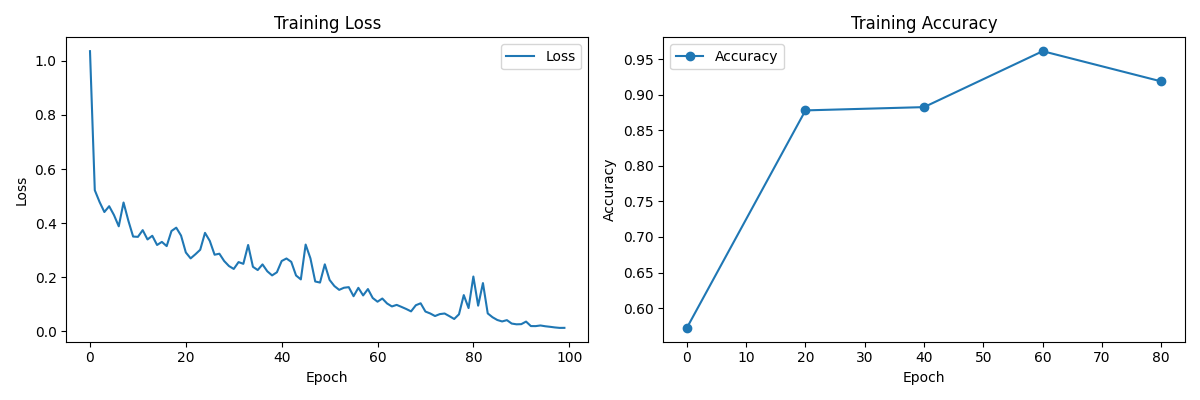
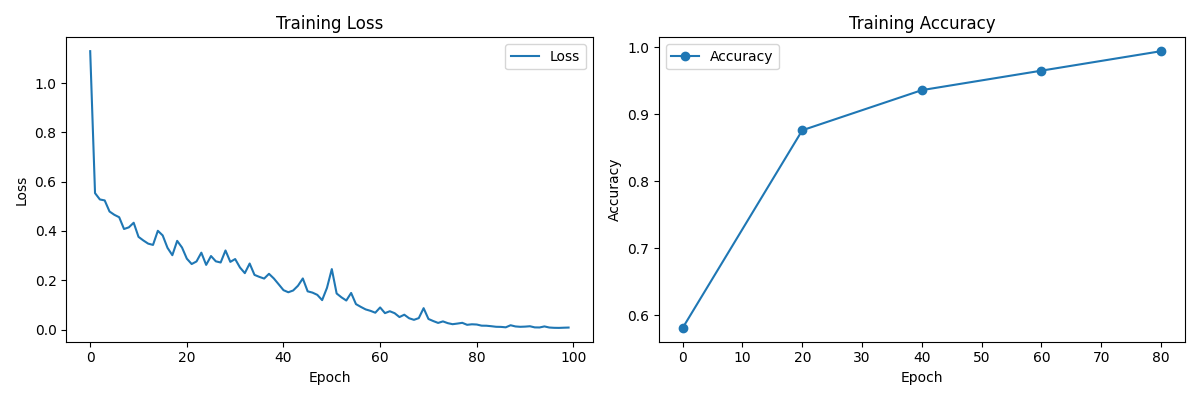
Add images and updated results

diff --git a/NeuralNetwork.py b/NeuralNetwork.py
@@ -159,7 +159,7 @@ with torch.no_grad():  # Disabilita il calcolo dei gradienti durante la valutazi
 
 
 
-torch.save(model.state_dict(), 'model_weights.pth')
+torch.save(model.state_dict(), 'model_weights_o.pth')
 accuracy = accuracy_score(ground_truth, predictions)
 print('Accuracy on test set:', accuracy)
 print(confusion_matrix(ground_truth, predictions))

diff --git a/README.md b/README.md
@@ -26,6 +26,9 @@ The codespace need to look like that:
     |- NeuralNetwork.py
     |- main.py
   
+
+![Alt text](plot/NoTumor.jpg?raw=true "No tumor" ) ![Alt text](plot/Tumor.jpg?raw=true "Tumor")
+
 ---------------------------------------------------
 PCA
 ---------------------------------------------------
@@ -192,16 +195,27 @@ cuda:0 - RTX 3070 ti
   - Train Shape : (2821, 240, 240)
   - Test Shape(941, 240, 240)
 
-Epoch: 0. Loss: 0.6297327280044556. | Accuracy (on trainset/self): 0.5721375398794754
+Epoch: 0. Loss: 0.18476. | Accuracy (on trainset/self): 0.58099
 
-Epoch: 20. Loss: 0.15023057162761688. | Accuracy (on trainset/self): 0.8780574264445232
+Epoch: 20. Loss: 0.14416. | Accuracy (on trainset/self): 0.87593
 
-Epoch: 40. Loss: 0.033843349665403366. | Accuracy (on trainset/self): 0.8826657213753988
+Epoch: 40. Loss: 0.01653. | Accuracy (on trainset/self): 0.93583
 
-Epoch: 60. Loss: 0.1481020152568817. | Accuracy (on trainset/self): 0.9613612194257356
+Epoch: 60. Loss: 0.08495. | Accuracy (on trainset/self): 0.96490
 
-Epoch: 80. Loss: 0.04397234693169594. | Accuracy (on trainset/self): 0.9188231123714995
+Epoch: 80. Loss: 0.02391. | Accuracy (on trainset/self): 0.99397
 
-Accuracy on test set: 0.9415515409139213
+Accuracy on test set: 0.95324
+
+
+                    Negative      Positive
+
+        Negative      508 (TN)      18 (FP)
+
+        Positive      26 (FN)       389 (TP)
+
+Precision : 0.955
+
+Recall : 0.937
 
 ![Alt text](plot/Training.png?raw=true "Title")
